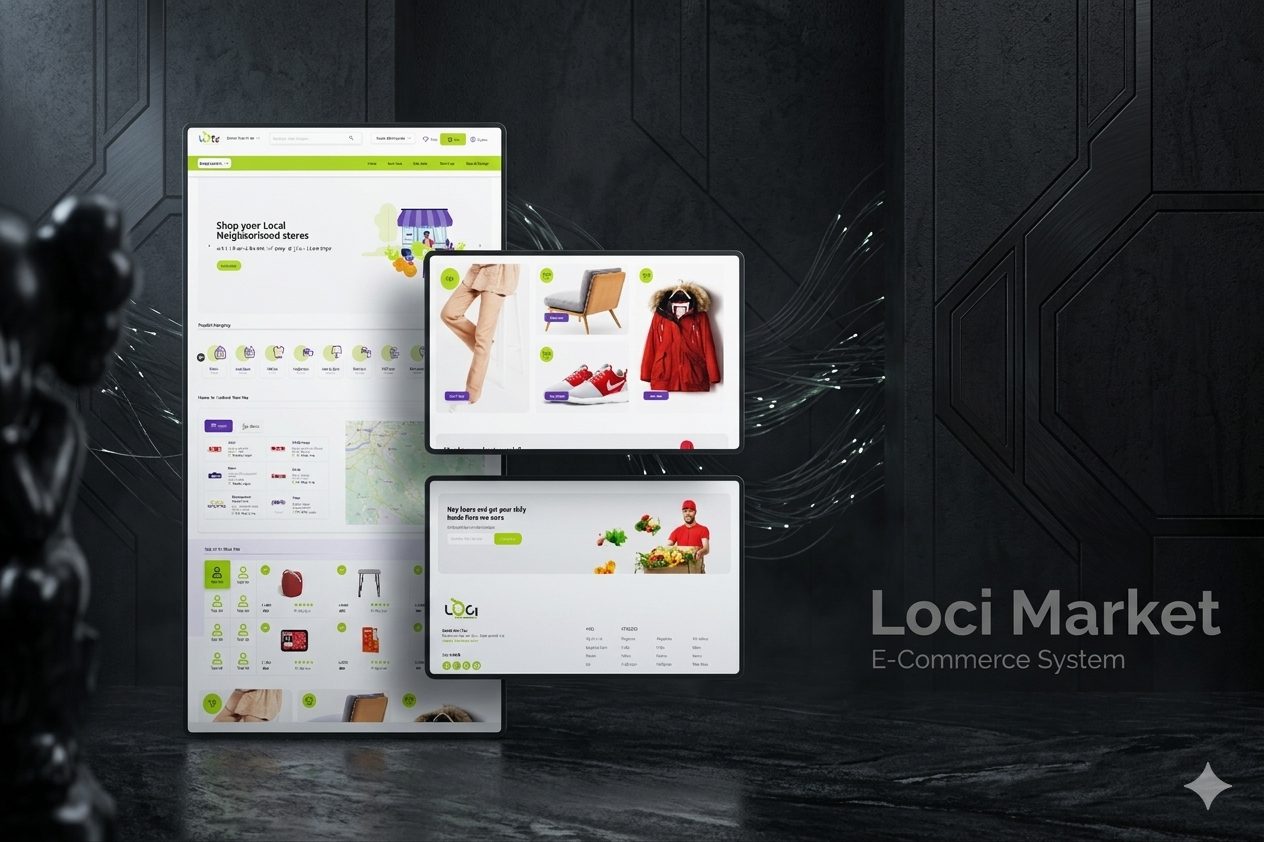
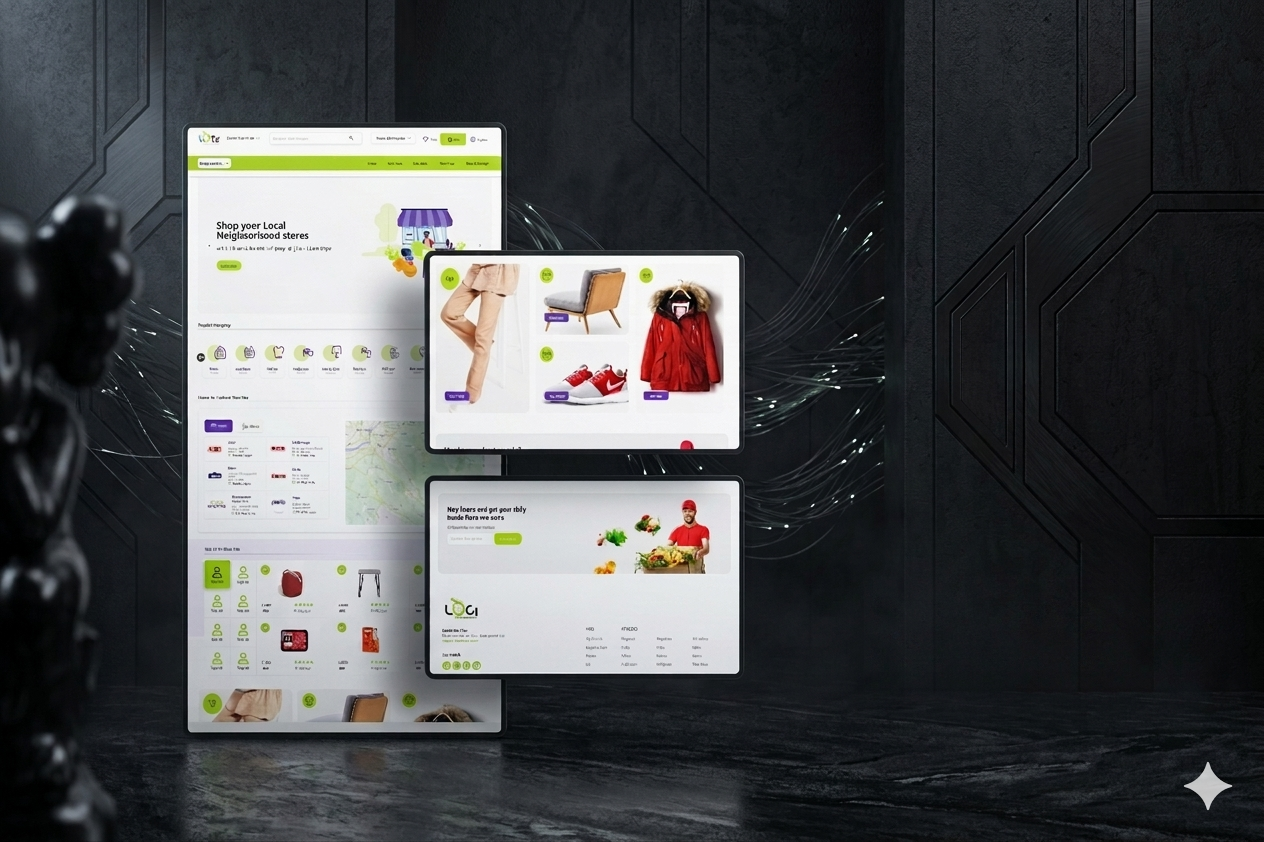
add images

diff --git a/index.html b/index.html
@@ -310,11 +310,11 @@
       </div>
       <<div class="h-scroll-card-info">
   <p style="font-size:10px;letter-spacing:0.3em;text-transform:uppercase;color:var(--accent);margin-bottom:0.5rem;">
-    05 — Frontend Development & E-Commerce
+    05 — Frontend Development
   </p>
 
   <h3 style="font-family:var(--font-display);font-size:1.6rem;font-weight:300;color:var(--white);">
-    Puma E-Commerce Website
+    Puma Website
   </h3>
 </div>
     </div>
